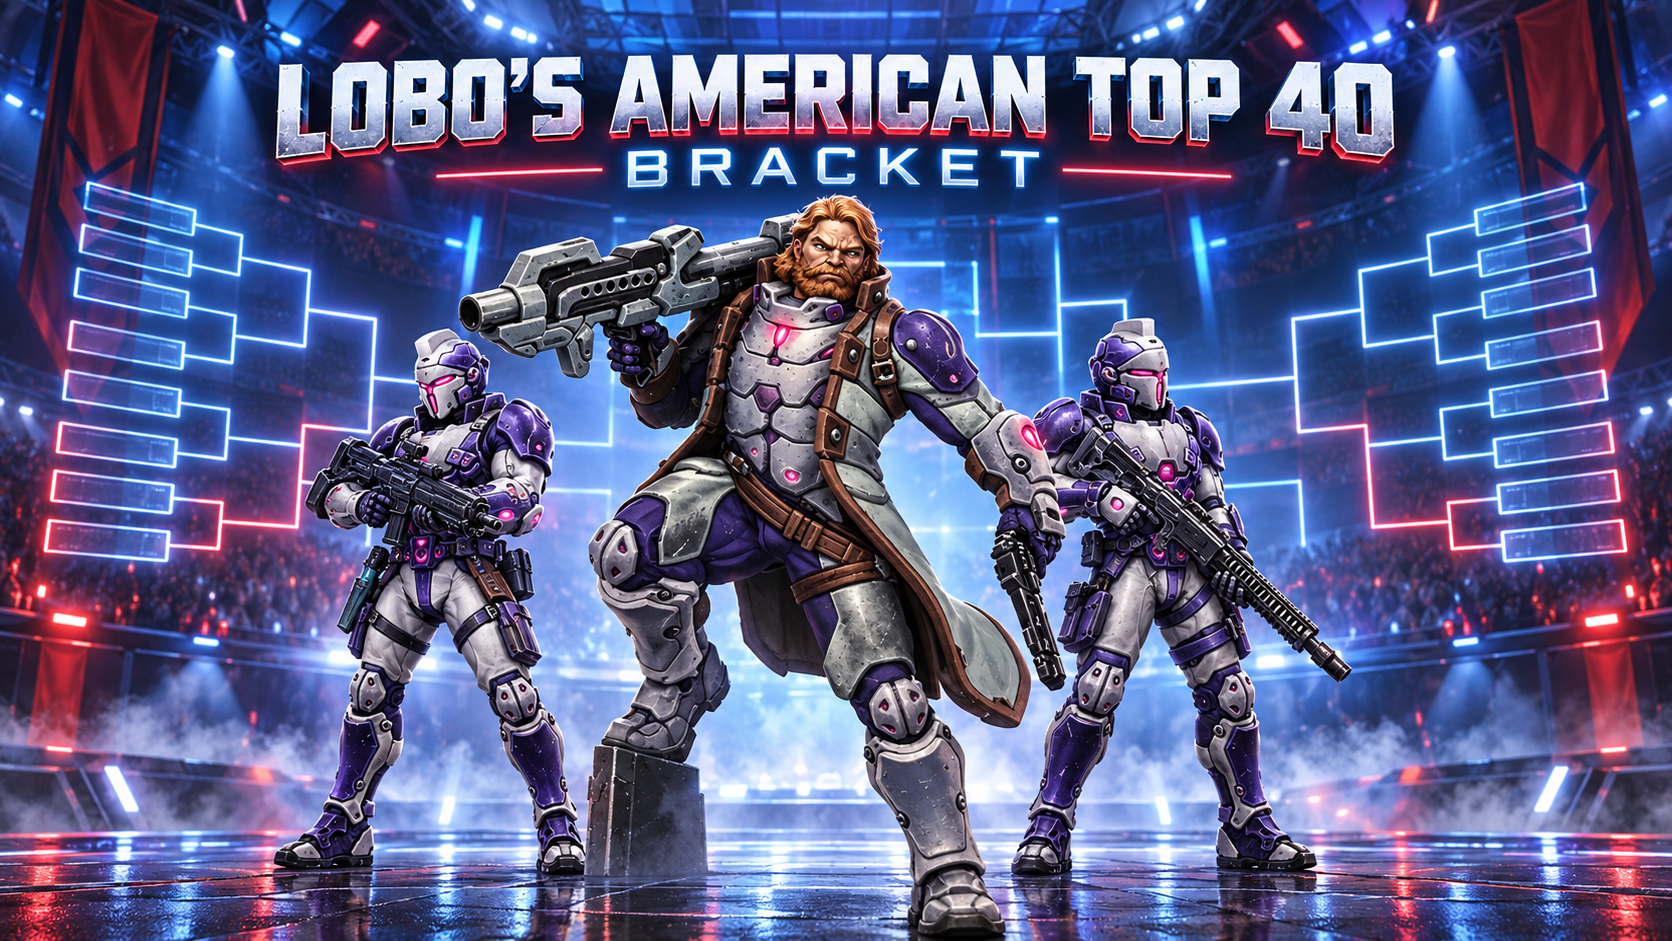
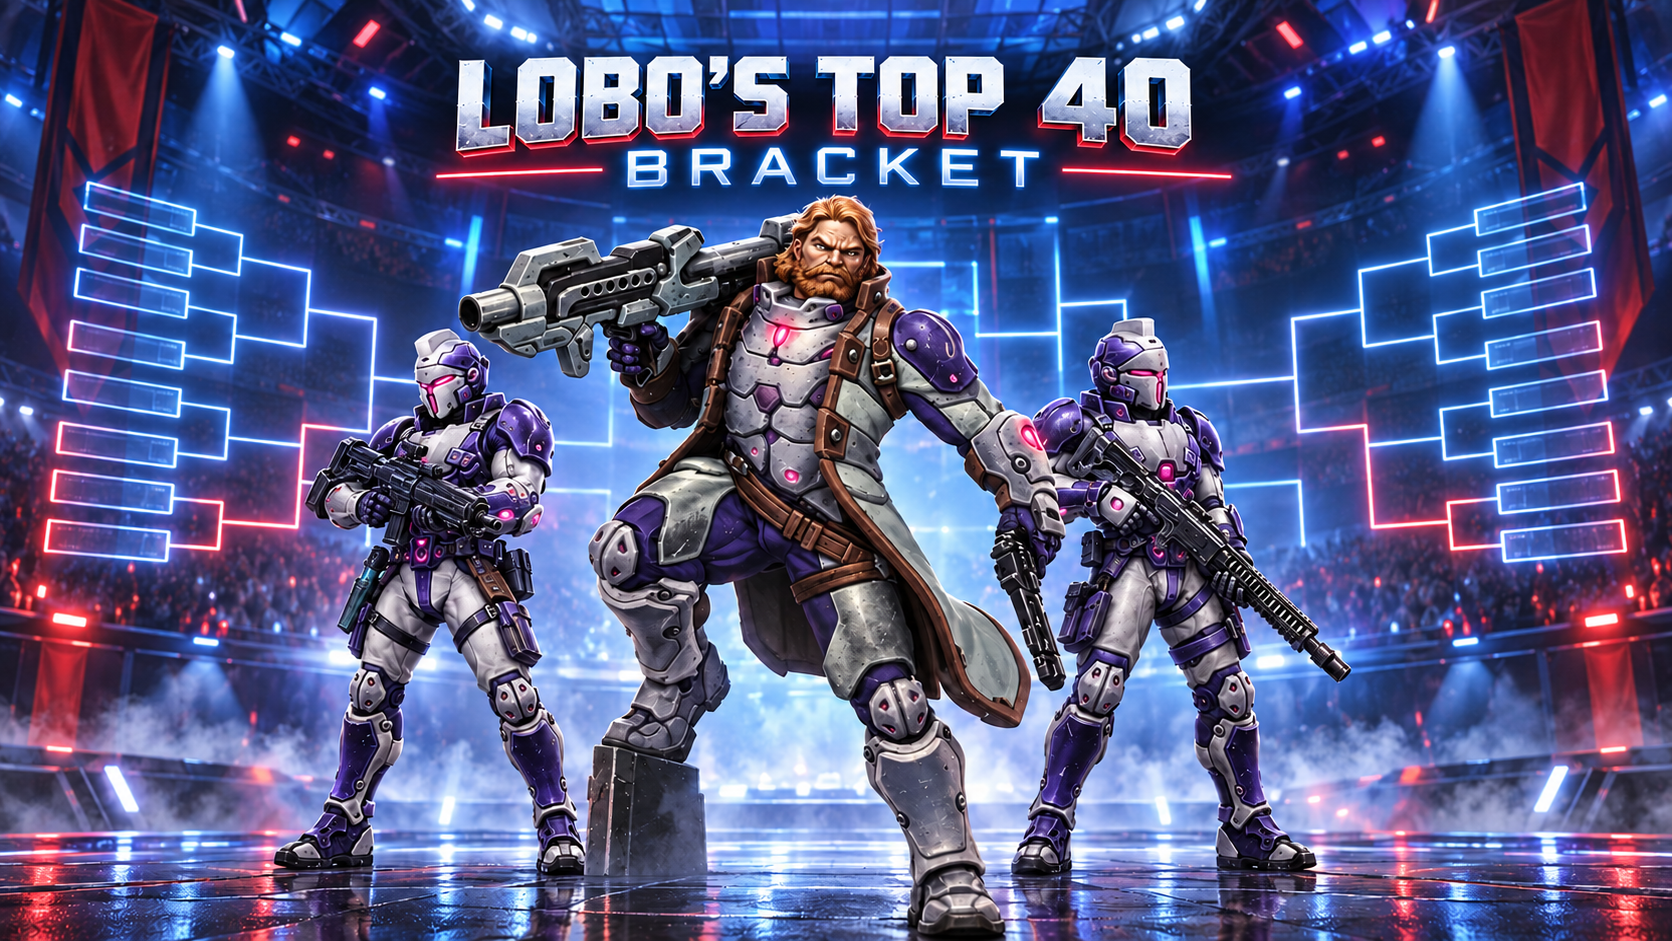
Rename event and artwork to Lobo's Top 40 without changing IDs

diff --git a/lobo-infinity-portal/src/public/SnapshotPublicApp.tsx b/lobo-infinity-portal/src/public/SnapshotPublicApp.tsx
@@ -527,7 +527,7 @@ function CurrentLeagueOverview({event,games}:{event:PublicEvent;games:PublicGame
 function CurrentLeagueRegistration({registrationUrl}:{registrationUrl?:string}){if(!registrationUrl)return <PublicEmptyState message="League registration is not available yet."/>;return <section className="snapshot-current-league-registration-panel" aria-labelledby="current-league-registration-title"><p className="eyebrow">July 2026 League</p><h2 id="current-league-registration-title">League Registration</h2><p>Registration for the July 2026 League is handled through the official registration form.</p><a className="snapshot-registration-form-cta" href={registrationUrl} target="_blank" rel="noopener noreferrer">REGISTER FOR THE LEAGUE</a></section>}
 function CurrentLeagueSchedule({schedule}:{schedule:PublicSchedule[]}){const source=schedule.find(item=>item.eventId==='event-current-league')??schedule[0];const divisions=source?.remainingMatchups??[];const mainMan=divisions.find(division=>division.divisionLabel==='Main Man')??divisions[0];const [selectedDivision,setSelectedDivision]=useState(mainMan?.division??'');const selected=divisions.find(division=>division.division===selectedDivision)??mainMan;if(!selected)return <section className="snapshot-current-league-schedule"><PublicEmptyState message="Remaining matchups are not available yet."/></section>;return <section className="snapshot-current-league-schedule" aria-labelledby="current-league-schedule-title"><div className="snapshot-current-league-schedule-heading"><p className="eyebrow">League Match Schedule</p><h2 id="current-league-schedule-title">Remaining Matchups</h2></div><nav className="snapshot-standings-division-switcher snapshot-schedule-division-switcher" aria-label="Current League schedule divisions">{divisions.map(division=><button type="button" key={division.division} aria-pressed={selected.division===division.division} onClick={()=>setSelectedDivision(division.division)}>{division.divisionLabel}</button>)}</nav><section className="snapshot-schedule-division-heading"><div><h3>{selected.divisionLabel}</h3><span>{selected.playerCount} Players</span></div><p>Required opponents</p></section><section className="panel snapshot-schedule-table-panel"><div className="table-wrapper snapshot-schedule-table-shell"><table className="snapshot-schedule-table"><thead><tr><th scope="col">Player</th><th scope="col">Opponents Completed</th><th scope="col">Opponents Remaining</th><th scope="col">Remaining Opponents</th></tr></thead><tbody>{selected.players.map(player=><tr className={player.opponentsRemaining===0?'snapshot-schedule-complete':''} key={player.player}><td><Link to={`/players/${encodeURIComponent(player.player)}`}>{player.displayName||player.player}</Link></td><td>{player.opponentsCompleted}</td><td>{player.opponentsRemaining}</td><td>{player.remainingOpponents.length?<span className="snapshot-schedule-opponents">{player.remainingOpponents.map(opponent=>opponent.displayName||opponent.player).join(' ✦ ')}</span>:<span className="snapshot-schedule-complete-label">Complete</span>}</td></tr>)}</tbody></table></div></section></section>}
 
-function EventHero({event}:{event:PublicEvent}){const{pathname}=useLocation();if(event.id==='event-current-league'&&pathname===`/event/${event.id}`)return <CompactArtwork title={event.name} eyebrow={event.type} src={leagueOverviewArtwork}/>;if(event.id==='event-current-league'&&(/\/(registration|schedule)$/.test(pathname))){const registration=pathname.endsWith('/registration');return <><CompactArtwork title={registration?'League Registration':'League Schedule'} eyebrow={event.name} src={registration?leagueRegistrationArtwork:leagueScheduleArtwork} cropAspectRatio={registration?undefined:"1536 / 760"}/>{registration&&getEventNavigationConfig(event.id)?.registrationUrl?<a className="button" href={getEventNavigationConfig(event.id)!.registrationUrl} target="_blank" rel="noopener noreferrer">Register for the League</a>:null}</>;}if(event.id==='event-lobo-s-american-top-40'&&pathname===`/event/${event.id}`)return <CompactArtwork title="Lobo's American Top 40" src="/assets/events/top-40-overview-v2.png"/>;const intro=event.id==='event-current-league'?'League standings, upcoming matchups, registration, and rules.':event.description;return <header className={`snapshot-event-hero ${/tournament/i.test(event.type)?'tournament':'league'}`}><div><p className="eyebrow">{event.type}</p><h1>{event.name}</h1>{intro?<p className="snapshot-event-tagline">{intro}</p>:null}</div><span className="snapshot-event-status">{event.status||event.lifecycleStage}</span>{event.id==='event-current-league'&&pathname===`/event/${event.id}/registration`&&getEventNavigationConfig(event.id)?.registrationUrl?<a className="snapshot-registration-hero-link" aria-label="Register for the League — open official registration form" href={getEventNavigationConfig(event.id)!.registrationUrl} target="_blank" rel="noopener noreferrer" />:null}</header>}
+function EventHero({event}:{event:PublicEvent}){const{pathname}=useLocation();if(event.id==='event-current-league'&&pathname===`/event/${event.id}`)return <CompactArtwork title={event.name} eyebrow={event.type} src={leagueOverviewArtwork}/>;if(event.id==='event-current-league'&&(/\/(registration|schedule)$/.test(pathname))){const registration=pathname.endsWith('/registration');return <><CompactArtwork title={registration?'League Registration':'League Schedule'} eyebrow={event.name} src={registration?leagueRegistrationArtwork:leagueScheduleArtwork} cropAspectRatio={registration?undefined:"1536 / 760"}/>{registration&&getEventNavigationConfig(event.id)?.registrationUrl?<a className="button" href={getEventNavigationConfig(event.id)!.registrationUrl} target="_blank" rel="noopener noreferrer">Register for the League</a>:null}</>;}if(event.id==='event-lobo-s-american-top-40'&&pathname===`/event/${event.id}`)return <CompactArtwork title="Lobo's Top 40" src="/assets/events/top-40-overview-v2.png"/>;const intro=event.id==='event-current-league'?'League standings, upcoming matchups, registration, and rules.':event.description;return <header className={`snapshot-event-hero ${/tournament/i.test(event.type)?'tournament':'league'}`}><div><p className="eyebrow">{event.type}</p><h1>{event.name}</h1>{intro?<p className="snapshot-event-tagline">{intro}</p>:null}</div><span className="snapshot-event-status">{event.status||event.lifecycleStage}</span>{event.id==='event-current-league'&&pathname===`/event/${event.id}/registration`&&getEventNavigationConfig(event.id)?.registrationUrl?<a className="snapshot-registration-hero-link" aria-label="Register for the League — open official registration form" href={getEventNavigationConfig(event.id)!.registrationUrl} target="_blank" rel="noopener noreferrer" />:null}</header>}
 
 function MissionGeistLink({url,missionName}:{url?:string;missionName?:string}){if(!url)return null;try{const parsed=new URL(url);if(parsed.protocol!=='https:'||parsed.hostname!=='infinitygeist.com')return null}catch{return null}return <p className="snapshot-mission-geist-link"><a href={url} target="_blank" rel="noopener noreferrer" aria-label={`View ${missionName || "mission"} on Infinity Geist`}>View Mission ↗</a><span>Courtesy of Mission Geist</span></p>}
 function MissionCatalogNavigation({mission,catalog}:{mission:{mission:string;missionGeistId?:string;missionGeistCanonicalUrl?:string};catalog:MissionGeistCatalogMission[]}){const navigation=resolveMissionGeistNavigation(mission,catalog);if(navigation.kind==='unmatched')return <span className="snapshot-mission-reference-unavailable">Mission reference unavailable</span>;if(navigation.kind==='exact'||navigation.kind==='unique')return <MissionGeistLink url={navigation.records[0].canonicalUrl} missionName={mission.mission}/>;return <details className="snapshot-mission-geist-versions"><summary>Choose mission version</summary><ul>{navigation.records.map(item=><li key={item.id}><a href={item.canonicalUrl} target="_blank" rel="noopener noreferrer">{item.sourceCollectionName||item.sourceCollectionId}</a></li>)}</ul><span>Courtesy of Mission Geist</span></details>}

diff --git a/lobo-infinity-portal/src/pages/PortalGuide.tsx b/lobo-infinity-portal/src/pages/PortalGuide.tsx
@@ -37,7 +37,7 @@ export default function PortalGuide() {
 <p><strong>Welcome:</strong> Welcome to the Lobo Infinity Portal. This tour will help you find a game, prepare your army, record your result, and take part in the community, including the Aurora Seven campaign.</p>
 <p><strong>Start on the dashboard:</strong> Start with Choose Your First Move on the dashboard. You can explore Army Intelligence, read a battle report, or find an event. Below, the featured report and recent games show what people have been playing. Public browsing is open to everyone.</p>
 <p><strong>Navigation and artwork:</strong> Use the sidebar for the main sections, or Explore for the wider directory. Search helps you find portal content, and the links above a page take you back to its parent section. On illustrated pages, Show Full Artwork and Use Compact Artwork let you choose how much space the banner takes.</p>
-<p><strong>Find your next game:</strong> All Events brings together the league, team tournament, American Top Forty, and Aurora Seven. Open an event to check its rules and registration status. For a casual game, join the Game Network or connect with players on Discord.</p>
+<p><strong>Find your next game:</strong> All Events brings together the league, team tournament, Lobo’s Top 40, and Aurora Seven. Open an event to check its rules and registration status. For a casual game, join the Game Network or connect with players on Discord.</p>
 <p><strong>Follow your event:</strong> The event selector changes the competition shown in the sidebar. Its links take you to the overview, registration, standings, schedule, and rules. In league standings, find your division to see recorded games, tournament points, objective points, and victory points.</p>
 <p><strong>Prepare for a league game:</strong> Before a league game, open Mission and Map. Check the current date range, active missions, and assigned tables. View Mission opens the available scenario reference through Mission Geist. Read the actual mission rules before you set up.</p>
 <p><strong>Choose a TTS table:</strong> The Tabletop Simulator Map Library lets you search by table name, filter named mission setups, and sort by player ratings. Choose the collection for your event. A mission label describes that particular Workshop save; other terrain layouts can be adapted by placing objectives according to your scenario.</p>

diff --git a/lobo-infinity-portal/src/services/api.ts b/lobo-infinity-portal/src/services/api.ts
@@ -1,3 +1,4 @@
+import { eventDisplayName } from '../config/eventBranding'
 import type {
   DashboardData,
   DashboardSummary,
@@ -4968,7 +4969,7 @@ function normalizeLeagueEvent(record: Record<string, unknown>): LeagueEvent {
     history: getString(record, 'history'),
     id: getRequiredString(record, 'id'),
     lifecycleStage: getString(record, 'lifecycleStage'),
-    name: getRequiredString(record, 'name'),
+    name: eventDisplayName(getRequiredString(record, 'id'), getRequiredString(record, 'name')),
     owner: getString(record, 'owner'),
     participants: getString(record, 'participants'),
     registration: getString(record, 'registration'),
@@ -6360,7 +6361,7 @@ function normalizeCommunityCommandEvent(
     eventId: getRequiredString(record, 'eventId'),
     gamesRemaining: getRequiredNumber(record, 'gamesRemaining'),
     link: getRequiredString(record, 'link'),
-    name: getRequiredString(record, 'name'),
+    name: eventDisplayName(getRequiredString(record, 'eventId'), getRequiredString(record, 'name')),
     primaryAction: getRequiredString(record, 'primaryAction'),
     status: getRequiredString(record, 'status'),
     statusDetail: getString(record, 'statusDetail'),
@@ -7904,7 +7905,7 @@ function normalizeEventLifecycleEvent(
     history: getString(record, 'history'),
     id: getRequiredString(record, 'id'),
     lifecycleStage: getRequiredString(record, 'lifecycleStage'),
-    name: getRequiredString(record, 'name'),
+    name: eventDisplayName(getRequiredString(record, 'id'), getRequiredString(record, 'name')),
     owner: getString(record, 'owner'),
     participants: getString(record, 'participants'),
     registration: getString(record, 'registration'),

diff --git a/lobo-infinity-portal/src/services/publicSnapshot.ts b/lobo-infinity-portal/src/services/publicSnapshot.ts
@@ -1,3 +1,4 @@
+import { eventDisplayName } from '../config/eventBranding'
 const PUBLIC_BLOB_ORIGIN = 'https://ecwefvuvauaqpary.public.blob.vercel-storage.com/'
 export const PUBLIC_SNAPSHOT_POINTER_URL = `${PUBLIC_BLOB_ORIGIN}public-snapshots/current.json`
 
@@ -78,7 +79,7 @@ export function getPublicSnapshotDataset<T>(
     if (envelope.snapshotId !== pointer.snapshotId) {
       throw new Error(`Public snapshot generation mismatch: ${dataset}.json`)
     }
-    return envelope.data
+    return dataset === 'events' ? normalizeEventNames(envelope.data) : envelope.data
   })
   cache.set(dataset, pending)
   pending.catch(() => cache.delete(dataset))
@@ -100,7 +101,7 @@ export async function getNewerPublicSnapshotDataset<T>(
   if (latest.snapshotId === pinned.snapshotId || latest.snapshotId === sinceSnapshotId) return null
   const envelope = await readPublicSnapshotFile<SnapshotEnvelope<T>>(dataset, signal, latest)
   if (envelope.snapshotId !== latest.snapshotId) return null
-  return { snapshotId: latest.snapshotId, data: envelope.data }
+  return { snapshotId: latest.snapshotId, data: dataset === 'events' ? normalizeEventNames(envelope.data) : envelope.data }
 }
 
 export function getPublicMissionGeistCatalog(signal?: AbortSignal) {
@@ -133,4 +134,11 @@ function validatePointer(pointer: PublicSnapshotPointer) {
     throw new Error('Current public snapshot pointer is invalid.')
   }
   return Object.freeze({ ...pointer })
+}
+
+function normalizeEventNames<T>(data: T): T {
+  if (!Array.isArray(data)) return data
+  return data.map((event: { id: string; name: string }) => ({
+    ...event, name: eventDisplayName(event.id, event.name),
+  })) as T
 }

diff --git a/lobo-infinity-portal/src/content/rulebooks/top40.ts b/lobo-infinity-portal/src/content/rulebooks/top40.ts
@@ -1,10 +1,10 @@
 import type { Rulebook } from './types'
 
 export const top40Rulebook: Rulebook = {
-  description: 'Lobo’s American Top 40 is an individual, 300-point, double-elimination Infinity tournament open to players throughout the Americas. Players are eliminated after their second match loss.',
+  description: 'Lobo’s Top 40 is an individual, 300-point, double-elimination Infinity tournament open to players throughout the Americas. Players are eliminated after their second match loss.',
   eventType: 'Individual Tournament Rules',
   id: 'top-40',
-  title: 'Lobo’s American Top 40 Rules',
+  title: 'Lobo’s Top 40 Rules',
   sections: [
     { id: 'eligibility-and-field', title: '1. Eligibility and Field', body: [{ type: 'unordered', items: ['The tournament is open to players throughout the Americas.', 'Registration is uncapped and may exceed 40 players.', 'After registration closes, the Commissioner selects the final tournament field.', 'The field is limited to a maximum of 40 players.'] }] },
     { id: 'tournament-format-and-seeding', title: '2. Tournament Format and Seeding', body: [{ type: 'unordered', items: ['The tournament uses an individual double-elimination format.', 'Players are manually seeded using Corvus Belli rankings.', 'A player is eliminated after their second match loss.'] }] },

diff --git a/lobo-infinity-portal/src/components/Top40RulesPage.tsx b/lobo-infinity-portal/src/components/Top40RulesPage.tsx
@@ -21,7 +21,7 @@ export default function Top40RulesPage() {
       className="portal-shell event-overview-shell current-league-rules-page top40-rules-page"
       data-event-section="rules"
     >
-      <CompactArtwork title="Rules" eyebrow="Lobo’s American Top 40" src="/assets/events/top-40-rules.png?v=e49f616a"/>
+      <CompactArtwork title="Rules" eyebrow="Lobo’s Top 40" src="/assets/events/top-40-rules.png"/>
       <nav className="event-home-nav" aria-label="Event navigation">
         {eventNavigationItems.map((item) => (
           <Link key={`${item.label}-${item.href}`} to={item.href}>{item.label}</Link>
@@ -32,7 +32,7 @@ export default function Top40RulesPage() {
         <h2 id="event-rules-page-title">{top40Rulebook.title}</h2>
         <p>{top40Rulebook.description}</p>
       </section>
-      <section className="rules-layout" aria-label="American Top 40 rules reference">
+      <section className="rules-layout" aria-label="Top 40 rules reference">
         <nav className="panel rules-toc" aria-label="On This Page">
           <p className="eyebrow">Rules</p>
           <h2>On This Page</h2>

diff --git a/lobo-infinity-portal/src/components/Top40RegistrationPage.tsx b/lobo-infinity-portal/src/components/Top40RegistrationPage.tsx
@@ -40,7 +40,7 @@ export default function Top40RegistrationPage() {
 
   return (
     <main className="portal-shell event-overview-shell top40-registration-page" data-event="top40-registration">
-      <CompactArtwork title="Registration" eyebrow="Lobo’s American Top 40" src="/assets/events/top-40-registration.png"/>
+      <CompactArtwork title="Registration" eyebrow="Lobo’s Top 40" src="/assets/events/top-40-registration.png"/>
 
       <nav className="event-home-nav" aria-label="Event navigation">
         {navigation.map((item) => (
@@ -57,7 +57,7 @@ export default function Top40RegistrationPage() {
 
       <section className="panel top40-registration-summary" aria-labelledby="top40-registration-title">
         <div>
-          <p className="eyebrow">Lobo&apos;s American Top 40</p>
+          <p className="eyebrow">Lobo&apos;s Top 40</p>
           <h2 id="top40-registration-title">Tournament Registration</h2>
           <p>Register for the individual 300-point, double-elimination tournament open to players throughout the Americas.</p>
         </div>

diff --git a/lobo-infinity-portal/src/pages/EventHome.tsx b/lobo-infinity-portal/src/pages/EventHome.tsx
@@ -515,7 +515,7 @@ function DoubleEliminationBracketPage({
         <p>Bracket generation is pending completion of registration and seeding.</p>
       </section> : null}
       {bracket?.generated ? <>
-        {bracket.tournamentComplete && bracket.champion ? <section className="panel event-home-panel"><h2>Lobo's American Top 40 Champion</h2><p>{bracket.champion}</p></section> : null}
+        {bracket.tournamentComplete && bracket.champion ? <section className="panel event-home-panel"><h2>Lobo's Top 40 Champion</h2><p>{bracket.champion}</p></section> : null}
         <BracketStructure matches={bracket.matches} />
       </> : null}
     </main>
@@ -911,7 +911,7 @@ function IndividualDoubleEliminationRegistrationForm({
   return (
     <section className="panel event-home-panel">
       <div className="panel-heading">
-        <p className="eyebrow">American Top 40</p>
+        <p className="eyebrow">Top 40</p>
         <h2>Register</h2>
       </div>
       <form className="event-manager-form compact" onSubmit={submitRegistration}>

diff --git a/lobo-infinity-portal/src/components/Top40BracketPage.tsx b/lobo-infinity-portal/src/components/Top40BracketPage.tsx
@@ -24,7 +24,7 @@ export default function Top40BracketPage({
 
   return (
     <main className="portal-shell event-overview-shell top40-bracket-page" data-event-section="bracket">
-      <CompactArtwork title="Tournament Bracket" eyebrow="Lobo’s American Top 40" src="/assets/events/top-40-bracket.png"/>
+      <CompactArtwork title="Tournament Bracket" eyebrow="Lobo’s Top 40" src="/assets/events/top-40-bracket.png"/>
 
       <nav className="event-home-nav" aria-label="Event navigation">
         {eventNavigationItems.map((item) => (
@@ -33,7 +33,7 @@ export default function Top40BracketPage({
       </nav>
 
       <section className="panel top40-bracket-intro" aria-labelledby="top40-bracket-title">
-        <p className="eyebrow">Lobo&apos;s American Top 40</p>
+        <p className="eyebrow">Lobo&apos;s Top 40</p>
         <h2 id="top40-bracket-title">Tournament Bracket</h2>
         <p>Forty players enter a complete double-elimination bracket. A player is eliminated after their second loss.</p>
       </section>

diff --git a/lobo-infinity-portal/src/public/Top40PreparationPage.tsx b/lobo-infinity-portal/src/public/Top40PreparationPage.tsx
@@ -39,7 +39,7 @@ export default function Top40PreparationPage() {
   }
 
   return <main className="portal-shell snapshot-public-page top40-preparation-page" data-event="top40-preparation">
-    <CompactArtwork title="Lobo’s American Top 40" eyebrow="Event preparation" src="/assets/events/top-40-overview-v2.png"/>
+    <CompactArtwork title="Lobo’s Top 40" eyebrow="Event preparation" src="/assets/events/top-40-overview-v2.png"/>
     <EventSectionTabs eventId={TOP40_EVENT_ID} items={['overview', 'registration', 'bracket', 'results', 'rules']}/>
     <header className="top40-preparation-heading"><div><p className="eyebrow">300 points · Double elimination</p><h1>Get ready for the tournament</h1><p>Registration, deadlines, missions, maps, and public army lists in one place.</p></div><span>Starts {preparationDate(event?.startDate || TOP40_ANNOUNCED_START_DATE)}</span></header>
     {events.error ? <DataNotice message="Event details are temporarily unavailable." retry={events.retry}/> : null}

diff --git a/lobo-infinity-portal/src/pages/SubmitResult.tsx b/lobo-infinity-portal/src/pages/SubmitResult.tsx
@@ -98,7 +98,7 @@ function SubmitResult() {
         <GoogleFormLauncher
           buttonLabel="Submit Top 40 Game"
           description="Submit a Top 40 tournament game."
-          label="Lobo's American Top 40"
+          label="Lobo's Top 40"
           url={GOOGLE_FORM_URLS.top40}
         />
       </section>
@@ -545,7 +545,7 @@ export function LegacySubmitResult() {
             to="/submit-game?eventId=event-august-2026-team-tournament&gameType=event"
           />
           <SubmissionChoice
-            description="Submit an Active Lobo's American Top 40 bracket match."
+            description="Submit an Active Lobo's Top 40 bracket match."
             label="Top 40"
             to="/submit-game?eventId=event-lobo-s-american-top-40&gameType=event"
           />

diff --git a/lobo-infinity-portal/src/public/Top40ResultsPage.tsx b/lobo-infinity-portal/src/public/Top40ResultsPage.tsx
@@ -31,7 +31,7 @@ export default function Top40ResultsPage() {
 
   return (
     <main className="portal-shell snapshot-public-page top40-results-page" data-event-section="results">
-      <CompactArtwork title="Results" eyebrow="Lobo’s American Top 40" src="/assets/events/top-40-results.png?v=6a394557"/>
+      <CompactArtwork title="Results" eyebrow="Lobo’s Top 40" src="/assets/events/top-40-results.png"/>
 
       <nav className="snapshot-tabs" aria-label="Event sections">
         {navigation.map((item) => (
